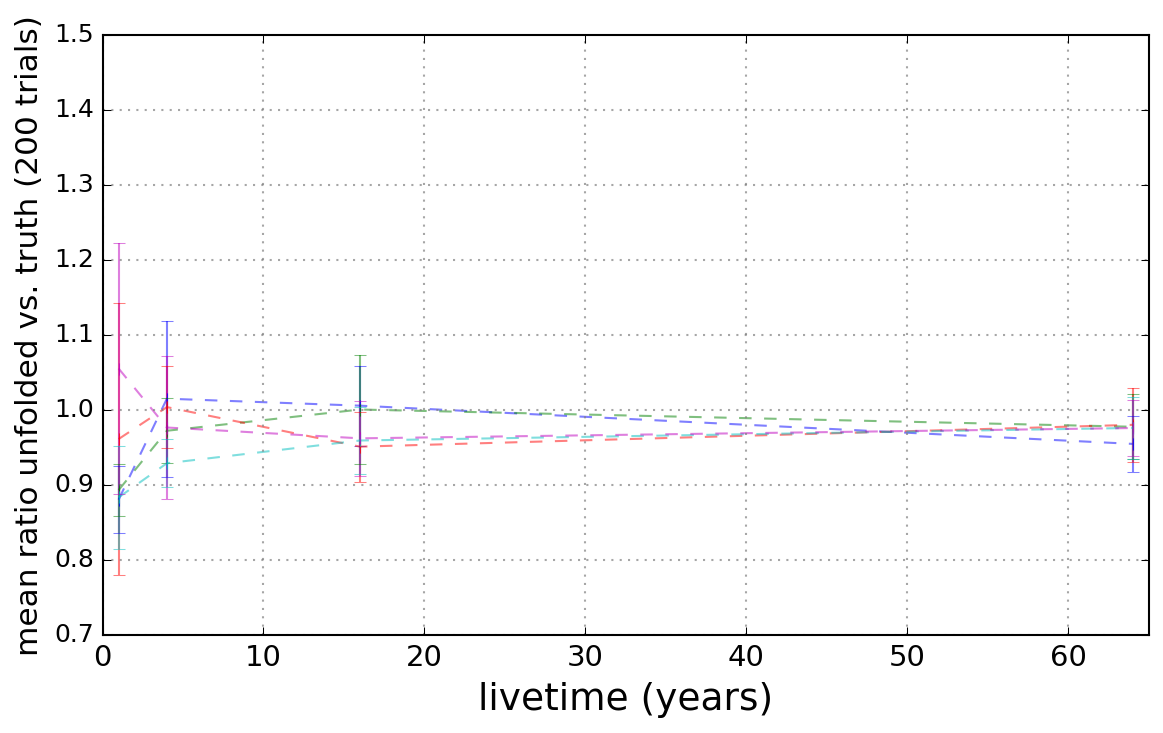
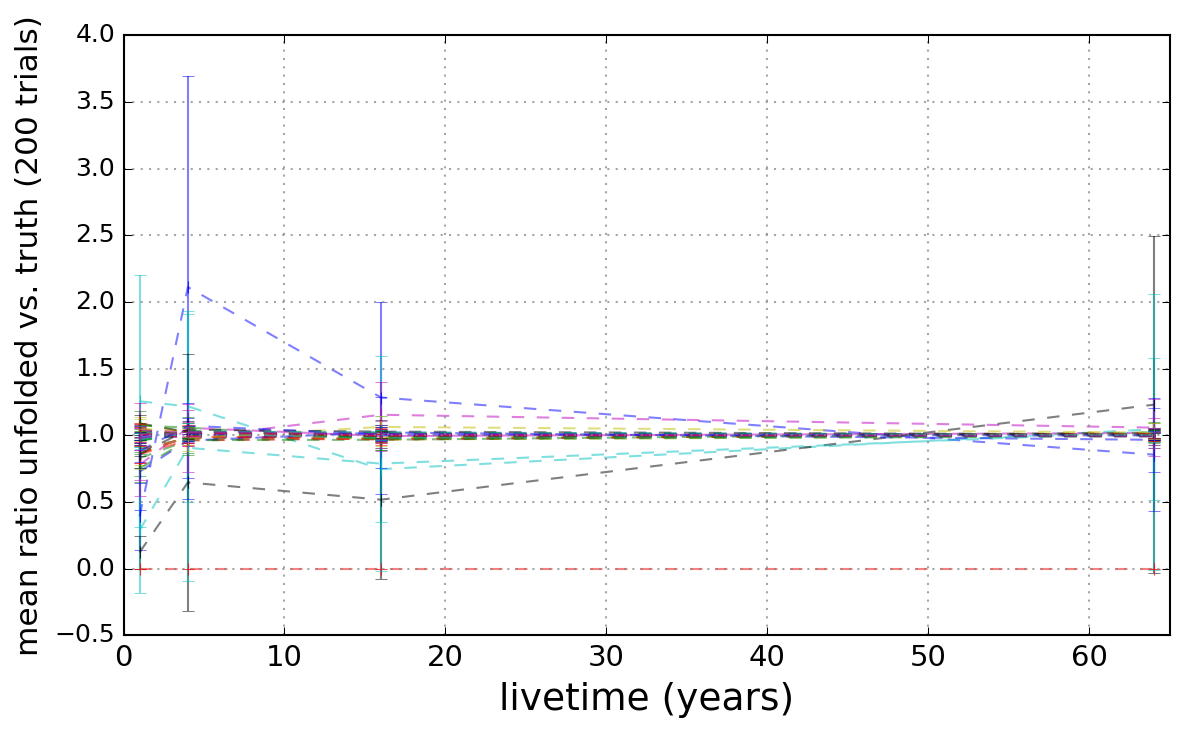
asd

diff --git a/livetime.py b/livetime.py
@@ -62,8 +62,8 @@ if __name__ == '__main__':
         pipeline.update_params(sf_param)
 
         fe = []
-        # for x in xrange(200):
-        for x in xrange(2):
+        for x in xrange(200):
+        # for x in xrange(2):
             temp_out = pipeline.get_outputs().pop()
             nan_mask = nom_out.hist < 0.0001
             div = temp_out.hist[~nan_mask] / nom_out.hist[~nan_mask]
@@ -75,7 +75,7 @@ if __name__ == '__main__':
     fe = zip(*mean_perpe)
     print fe
 
-    outname = 'test'
+    outname = 'leesard'
 
     import matplotlib as mpl
     # headless mode
@@ -97,7 +97,7 @@ if __name__ == '__main__':
     ax.tick_params(axis='y', labelsize=12)
 
     ax.set_xlabel('livetime (years)', fontsize=18)
-    ax.set_ylabel('mean ratio unfolded vs. truth (200 trials)', fontsize=15)
+    ax.set_ylabel('mean ratio per pe unfolded vs. truth (200 trials)', fontsize=15)
 
     def get_edges_from_cen(bincen):
         hwidth = 0.5*(bincen[1] - bincen[0])
@@ -120,29 +120,25 @@ if __name__ == '__main__':
     mean = zip(*mean_perbin)
     print mean
 
-    fig = plt.figure(figsize=(9, 5))
-    ax = fig.add_subplot(111)
-    ax.set_xlim(np.min(binning)-1, np.max(binning)+1)
-    # ax.set_ylim(0.5, 1.5)
-    ax.tick_params(axis='x', labelsize=14)
-    ax.tick_params(axis='y', labelsize=12)
+    fig_2 = plt.figure(figsize=(9, 5))
+    ax_2 = fig_2.add_subplot(111)
+    ax_2.set_xlim(np.min(binning)-1, np.max(binning)+1)
+    # ax_2.set_ylim(0.5, 1.5)
+    ax_2.tick_params(axis='x', labelsize=14)
+    ax_2.tick_params(axis='y', labelsize=12)
 
-    ax.set_xlabel('livetime (years)', fontsize=18)
-    ax.set_ylabel('mean ratio unfolded vs. truth (200 trials)', fontsize=15)
-
-    def get_edges_from_cen(bincen):
-        hwidth = 0.5*(bincen[1] - bincen[0])
-        return np.append([bincen[0]-hwidth], bincen[:]+hwidth)
+    ax_2.set_xlabel('livetime (years)', fontsize=18)
+    ax_2.set_ylabel('mean ratio per bin unfolded vs. truth (200 trials)', fontsize=15)
 
     for f in mean:
-        ax.errorbar(
+        ax_2.errorbar(
             binning, unp.nominal_values(f), xerr=0,
             yerr=unp.std_devs(f), capsize=3, alpha=0.5, linestyle='--',
             markersize=2, linewidth=1
         )
 
-    for ymaj in ax.yaxis.get_majorticklocs():
-        ax.axhline(y=ymaj, ls=':', color='gray', alpha=0.7, linewidth=1)
-    for xmaj in ax.xaxis.get_majorticklocs():
-        ax.axvline(x=xmaj, ls=':', color='gray', alpha=0.7, linewidth=1)
-    fig.savefig('./images/perpe/'+outname+'.png', bbox_inches='tight', dpi=150)
+    for ymaj in ax_2.yaxis.get_majorticklocs():
+        ax_2.axhline(y=ymaj, ls=':', color='gray', alpha=0.7, linewidth=1)
+    for xmaj in ax_2.xaxis.get_majorticklocs():
+        ax_2.axvline(x=xmaj, ls=':', color='gray', alpha=0.7, linewidth=1)
+    fig_2.savefig('./images/perbin/'+outname+'.png', bbox_inches='tight', dpi=150)
